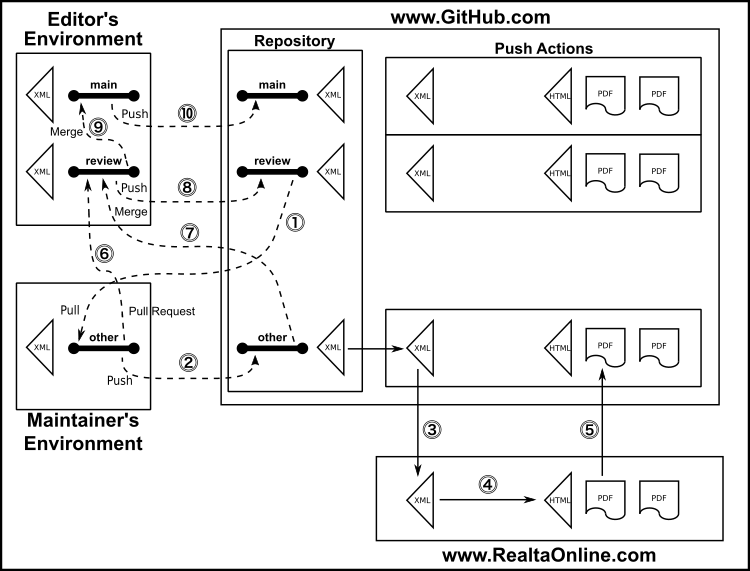
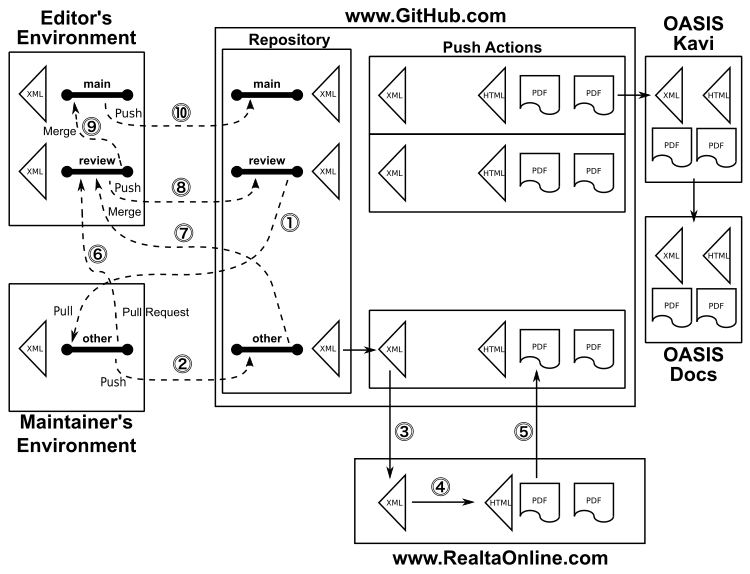
Yet more changes to the README and diagram

Changed region(s): [[0.0, 0.0, 1.0, 1.0]]

diff --git a/README.md b/README.md
@@ -1,4 +1,4 @@
-Members of the [OASIS Code List Representation TC](https://www.oasis-open.org/committees/codelist/) create and manage technical content in this TC GitHub repository (https://github.com/oasis-tcs/codelist-genericode/) as part of the TC's chartered work (the program of work and deliverables described in its [charter](https://www.oasis-open.org/committees/codelist/charter.php).
+Members of the [OASIS Code List Representation TC](https://www.oasis-open.org/committees/codelist/) create and manage technical content in this TC GitHub repository (https://github.com/oasis-tcs/codelist-genericode/) as part of the TC's chartered work (the program of work and deliverables described in its [charter](https://www.oasis-open.org/committees/codelist/charter.php)).
 
 OASIS TC GitHub repositories, as described in [GitHub Repositories for OASIS TC Members' Chartered Work](https://www.oasis-open.org/resources/tcadmin/github-repositories-for-oasis-tc-members-chartered-work), are governed by the OASIS [TC Process](https://www.oasis-open.org/policies-guidelines/tc-process), [IPR Policy](https://www.oasis-open.org/policies-guidelines/ipr), and other policies. While they make use of public GitHub repositories, these repositories are distinct from [OASIS Open Repositories](https://www.oasis-open.org/resources/open-repositories), which are used for development of open source [licensed](https://www.oasis-open.org/resources/open-repositories/licenses) content.
 
@@ -40,12 +40,12 @@ The act of checking a committed branch to GitHub automatically triggers the publ
 1. The maintainer always pulls from the “review” branch into their own private “other” branch of their own naming, not overlapping with the name used by any other maintainer or editor.
 Pulling from the “review” branch must be done after every time the editor updates the “review” branch.
 A common mistake is to pull from the “main” branch because this is the branch that is visible when one opens the repository.
-1. The maintainer makes the changes they wish to their local copy of the “other” branch. A local preview facility allows the maintainer to their edits to the specification fully formatted as an OASIS specification in a web browser.
+1. The maintainer makes the changes they wish to their local copy of the “other” branch. A local preview facility allows the maintainer to preview in a web browser their edits to the specification fully formatted as an OASIS specification.
 When completed they commit their changes and push their changes to GitHub.
-1. Every push to GitHub triggers a GitHub Action that forwards a copy of the XML to the https://www.RealtaOnline.com server API entry point specific to the desired outputs.
-1. The Réalta server prepares the HTML and PDF outputs for the OASIS layout and the PDF output for the ISO Directives Part 2 layout.
-1. The Réalta server returns to GitHub the published results in a ZIP file. The Action’s script unzips the results and packages them in a doubly-zipped ZIP file.
-The outer ZIP is used to wrap the Action’s artifacts results. The inner ZIP wraps the work product results suitable for posting to the OASIS Kavi server for archive purposes. Inside the inner ZIP contains an archive-only directory recording the control files governing the publishing process, the set of work product files to be posted to the OASIS Docs server, and a ZIP of the work product files for the public to download from the OASIS Docs server. These Action results are transient and not placed into the repository. Eventually GitHub deletes old Action results. 
+1. Every push to GitHub triggers a GitHub Action that forwards a copy of the XML to the https://www.RealtaOnline.com API entry point specific to the desired outputs.
+1. Réalta prepares the HTML and PDF outputs for the OASIS layout and the PDF output for the ISO Directives Part 2 layout.
+1. Réalta returns to GitHub the published results in a ZIP file. The Action’s script unzips the results and packages them in a doubly-zipped ZIP file.
+The outer ZIP is used to wrap the Action’s artifacts results. The inner ZIP wraps the work product results suitable for posting to the OASIS Kavi server for archive purposes. Inside the inner ZIP contains an archive-only directory recording the control files governing the publishing process, the set of work product files to be posted to the OASIS Docs server, and a ZIP of the work product files for the public to download from the OASIS Docs server. These Action results are transient and not placed into the GitHub code repository. Eventually GitHub deletes old Action results. 
 The maintainer downloads the GitHub Action’s artifacts ZIP file for their review and, if desired, local backup. If they wish to make changes, they return to step 2 and repeat the process.
 1. When the maintainer is satisfied with their work to be reviewed by the editor and other team members, they send a pull request to the editor describing their changes that they have committed to their “other” branch.
 1. The editor reviews the pull request and, if satisfied with the contribution, they pull the server’s copy of the “other” branch into their local environment and merge it into the “review” branch.
@@ -55,13 +55,13 @@ This push automatically triggers the GitHub Action running the complete publishi
 If maintainers wish to make changes they return to step 1 (not step 2) and repeat the process.
 1. When the editor has accommodated all of the feedback from committee members regarding the review and wishes to archive a snapshot for posterity, they merge their local “review” branch into their local “main” branch.
 1. The editor pushes their local “main” branch to GitHub.
-This push automatically triggers the GitHub Action running the complete publishing process that returns the work product ready for the editor to download from GitHub. The artifacts ZIP is unpacked revealing the inner ZIP that is uploaded to the OASIS Kavi server for posterity and to fulfill the obligation to the public that intermediate work products be easily available.
+This push automatically triggers the GitHub Action running the complete publishing process that returns the work product ready for the editor to download from GitHub. The artifacts ZIP is manually unpacked revealing the inner ZIP that is then uploaded to the OASIS Kavi server for posterity and to fulfill the obligation to the public that intermediate work products be easily available.
 Following the OASIS TC Process the committee can qualify a snapshot on the OASIS Kavi server to be uploaded by OASIS TC Administration to the OASIS Docs server. When doing so the embedded archive-only directory is not included on the OASIS Docs server, but remains available on the OASIS Kavi server.
 
 ## Repository contents
 
 Directories:
-- `.github/workflows` - the automated publishing and packaging process triggers performed for every check-in
+- `.github/workflows` - the automated publishing and packaging process triggers performed for every push
 - `cs01` - the results of publication of the Committee Specification 01 dated 28 December 2007
 - `doc` - documentation inputs
   - `doc/genericode.xml` - the specification file being edited
@@ -74,16 +74,16 @@ Directories:
 - `xsd` - W3C XML Schema structural constraints
 
 Support files:
-- `produceGenericode.*` - publishing and packaging process files converting XML to end-user PDF and HTML documents
-- `realta*` - publishing support files
+- `produceGenericode.*` - GitHub action publishing and packaging process files converting XML to end-user PDF and HTML documents
+- `realta*` - publishing process support files
 
 ## Preview results
 
-Intermediate edits saved to the `doc/genercode.xml` file can be previewed instantly in a browser on your local computer. It is recommended that one do this to establish their edits are satisfactory before checking in to GitHub to trigger the published results.
+Intermediate edits saved to the local `doc/genercode.xml` file can be previewed instantly in a browser on your computer. It is recommended that one do this to establish their edits are satisfactory before checking in to GitHub to trigger the published results.
 
-Note that the preview HTML presents the PDF images and so the images are dramatically oversized. This is not the case for the published HTML returned from GitHub.
+Note that the preview HTML presents the high-resolution PDF images, not the low-resolution HTML images and so the images are dramatically oversized in the browser window. This is not the case for the published HTML returned from GitHub.
 
-Once the XML has been opened in the browser, it is necessary only to refresh the browser window after each save of the XML edits. It is not necessary to go through the drag-and-drop or open requests.
+Once the XML has been opened in the browser, it is necessary only to refresh the browser window after each save of the XML edits. It is not necessary to go through again the drag-and-drop or open requests.
 
 Opening the XML in Windows:
 - drag and drop the XML source onto Internet Explorer, or "right-click, Open with..., Internet Explorer"
@@ -101,7 +101,7 @@ The published results are not stored in the GitHub repository, _per se_.
 
 See the [Actions tab](https://github.com/oasis-tcs/codelist-genericode/actions) for the results of publishing processes and distribution packaging, being careful to note the branch indicated for the desired commit message. As branches are merged the commit message is inherited in the merged branch.
 
-You must be signed in to GitHub in order to download the results from the "Artifacts" section on the action's build result page.
+You must be signed in to GitHub in order to download the results from the "Artifacts" section on the action's build result page. If not, you will get a "404 Not Found" error for the build result page.
 
 Each downloaded result is doubly-zipped: the outer zip for GitHub extraction purposes and the inner zip for posting to Kavi and distribution. Moreover, the actual content is copied in the distribution in its own third ZIP file for posting. The `archive-only-not-in-final-distribution/` subdirectory is not meant for inclusion in the final home in the [OASIS document server](https://docs.oasis-open.org/codelist), only for archive purposes in Kavi.
 
